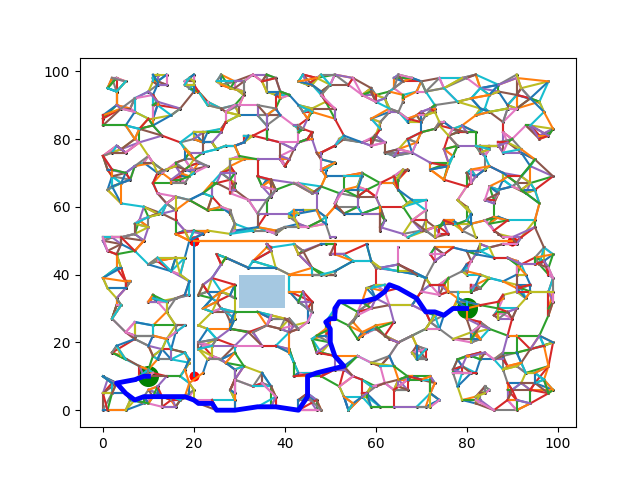
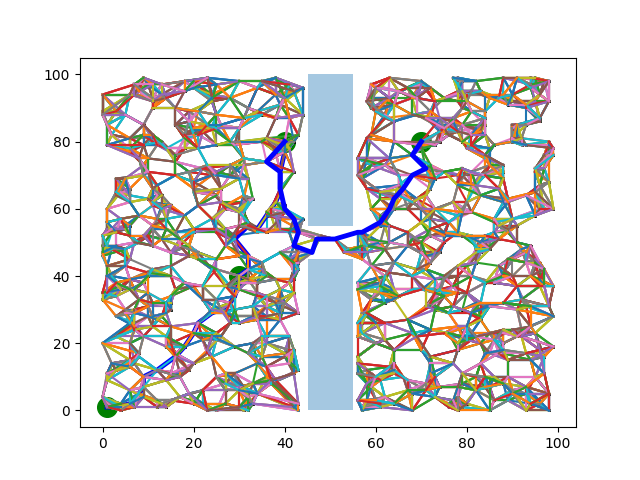
Aug17th

diff --git a/classes/PRMController.py b/classes/PRMController.py
@@ -1,6 +1,4 @@
 from collections import defaultdict
-import sys
-import math
 import matplotlib.pyplot as plt
 import matplotlib.patches as patches
 from matplotlib.patches import Rectangle
@@ -11,56 +9,63 @@ import argparse
 
 from .Dijkstra import Graph, dijkstra, to_array
 from .Utils import Utils
-
+import time
 
 class PRMController:
-    def __init__(self, numOfRandomCoordinates, allObs, current, destination):
+    def __init__(self, numOfRandomCoordinates, allObs, current, destinations):
         self.numOfCoords = numOfRandomCoordinates
         self.coordsList = np.array([])
         self.allObs = allObs
         self.current = np.array(current)
-        self.destination = np.array(destination)
+        self.destinations = np.array(destinations)
         self.graph = Graph()
         self.utils = Utils()
         self.solutionFound = False
-
-    def runPRM(self, initialRandomSeed, saveImage=True):
+        self.maxSizeOfMap = 100
+    def runPRM(self, initialRandomSeed,saveImage=True):
         seed = initialRandomSeed
         # Keep resampling if no solution found
+        start = time.time()
         while(not self.solutionFound):
             print("Trying with random seed {}".format(seed))
             np.random.seed(seed)
+            
+            self.coordsList = np.random.randint(self.maxSizeOfMap, size=(self.numOfCoords, 2))
+            for i in range(0,len(self.destinations)):
+                if i != 0:
+                    self.current = self.destinations[i-1,:]
+                self.destination = self.destinations[i,:]
+                # Generate n random samples called milestones
+                self.genCoords()
+                
+                # Check if milestones are collision free
+                self.checkIfCollisonFree()
 
-            # Generate n random samples called milestones
-            self.genCoords()
+                # Link each milestone to k nearest neighbours.
+                # Retain collision free links as local paths.
+                self.findNearestNeighbour()
 
-            # Check if milestones are collision free
-            self.checkIfCollisonFree()
-
-            # Link each milestone to k nearest neighbours.
-            # Retain collision free links as local paths.
-            self.findNearestNeighbour()
-
-            # Search for shortest path from start to end node - Using Dijksta's shortest path alg
-            self.shortestPath()
+                # Search for shortest path from start to end node - Using Dijksta's shortest path alg
+                self.shortestPath()
+                #raise NotImplementedError
 
             seed = np.random.randint(1, 100000)
             self.coordsList = np.array([])
             self.graph = Graph()
 
-        if(saveImage):
-            plt.savefig("{}_samples.png".format(self.numOfCoords))
-        plt.show()
+            if(saveImage):
+                plt.savefig("{}_samples.png".format(self.numOfCoords))
+            plt.show()
+            end = time.time()
+            print(f"{end - start:.5f} sec")
 
-    def genCoords(self, maxSizeOfMap=100):
-        self.coordsList = np.random.randint(
-            maxSizeOfMap, size=(self.numOfCoords, 2))
+    def genCoords(self):
         # Adding begin and end points
         self.current = self.current.reshape(1, 2)
-        self.destination = self.destination.reshape(1, 2)
+        self.destination = self.destination.reshape(-1, 2)
         self.coordsList = np.concatenate(
             (self.coordsList, self.current, self.destination), axis=0)
-
+        #self.coordsList2 = np.concatenate(self.coordsList,self.destinations[0],self.destinations[1],axis = 0)
     def checkIfCollisonFree(self):
         collision = False
         self.collisionFreePoints = np.array([])
@@ -74,7 +79,7 @@ class PRMController:
                         [self.collisionFreePoints, point])
         self.plotPoints(self.collisionFreePoints)
 
-    def findNearestNeighbour(self, k=5):
+    def findNearestNeighbour(self, k=8):
         X = self.collisionFreePoints
         knn = NearestNeighbors(n_neighbors=k)
         knn.fit(X)

diff --git a/main.py b/main.py
@@ -3,7 +3,7 @@ import sys
 import numpy as np
 import argparse
 from classes import PRMController, Obstacle, Utils
-
+import time
 
 def main(args):
 
@@ -15,14 +15,17 @@ def main(args):
     numSamples = args.numSamples
 
     env = open("environment.txt", "r")
+    # l1 : Current and Destination
     l1 = env.readline().split(";")
 
     current = list(map(int, l1[0].split(",")))
-    destination = list(map(int, l1[1].split(",")))
+    destinations = np.array(list(map(int, l1[1].split(",")))).reshape(-1,2)
+    destinations = np.ndarray.tolist(destinations)
 
-    print("Current: {} Destination: {}".format(current, destination))
+    print("Current: {} Destinations: {}".format(current, destinations))
 
     print("****Obstacles****")
+    # 모든 장애물들
     allObs = []
     for l in env:
         if(";" in l):
@@ -34,13 +37,14 @@ def main(args):
             allObs.append(obs)
 
     utils = Utils()
-    utils.drawMap(allObs, current, destination)
+    utils.drawMap(allObs, current, destinations)
 
-    prm = PRMController(numSamples, allObs, current, destination)
+    prm = PRMController(numSamples, allObs, current, destinations)
     # Initial random seed to try
-    initialRandomSeed = 0
+    initialRandomSeed = 32
     prm.runPRM(initialRandomSeed)
 
 
 if __name__ == '__main__':
+
     main(sys.argv)

diff --git a/classes/Utils.py b/classes/Utils.py
@@ -24,7 +24,8 @@ class Utils:
             else:
                 currentAxis.add_patch(Rectangle(
                     (ob.bottomLeft[0], ob.bottomLeft[1]), ob.width, ob.height, alpha=0.4))
-
+        dest = np.array(dest)
+        print(dest)
         plt.scatter(curr[0], curr[1], s=200, c='green')
-        plt.scatter(dest[0], dest[1], s=200, c='green')
+        plt.scatter(dest[:,0], dest[:,1], s=200, c='green')
         fig.canvas.draw()
